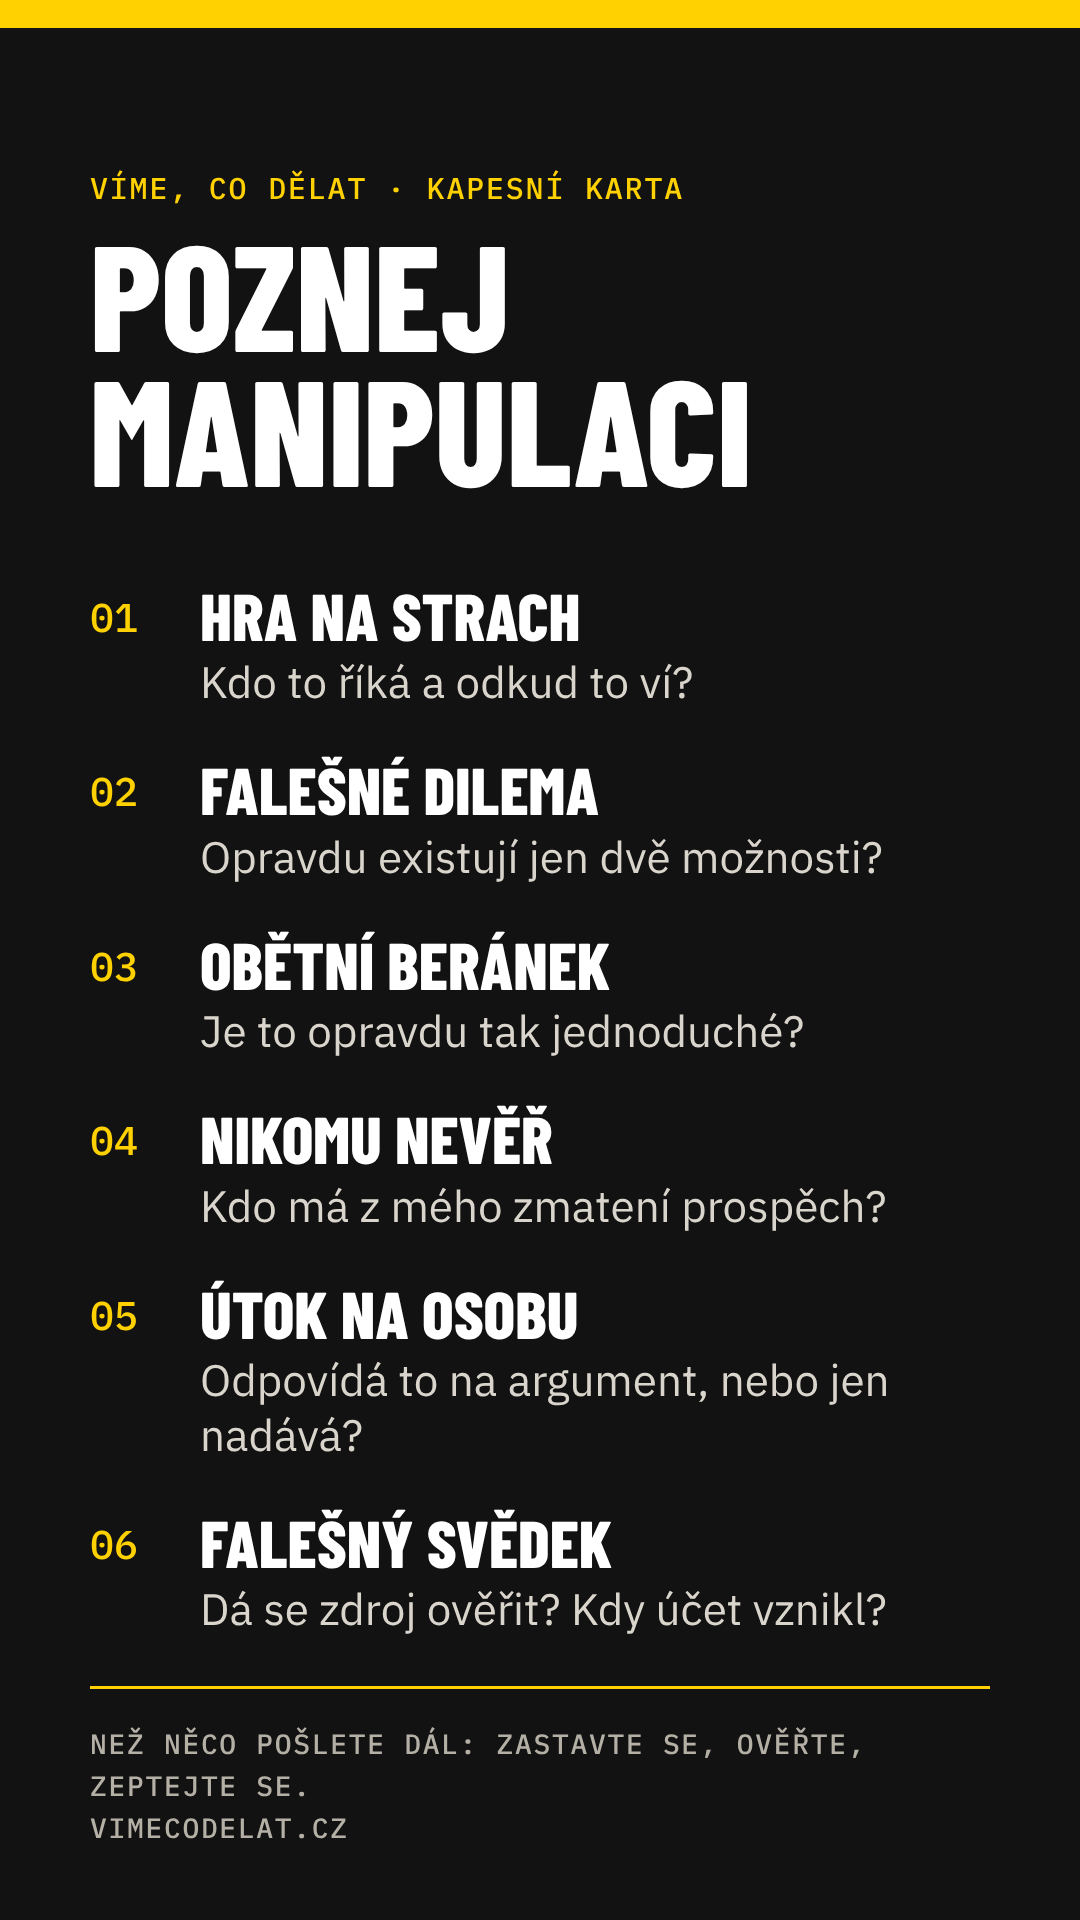
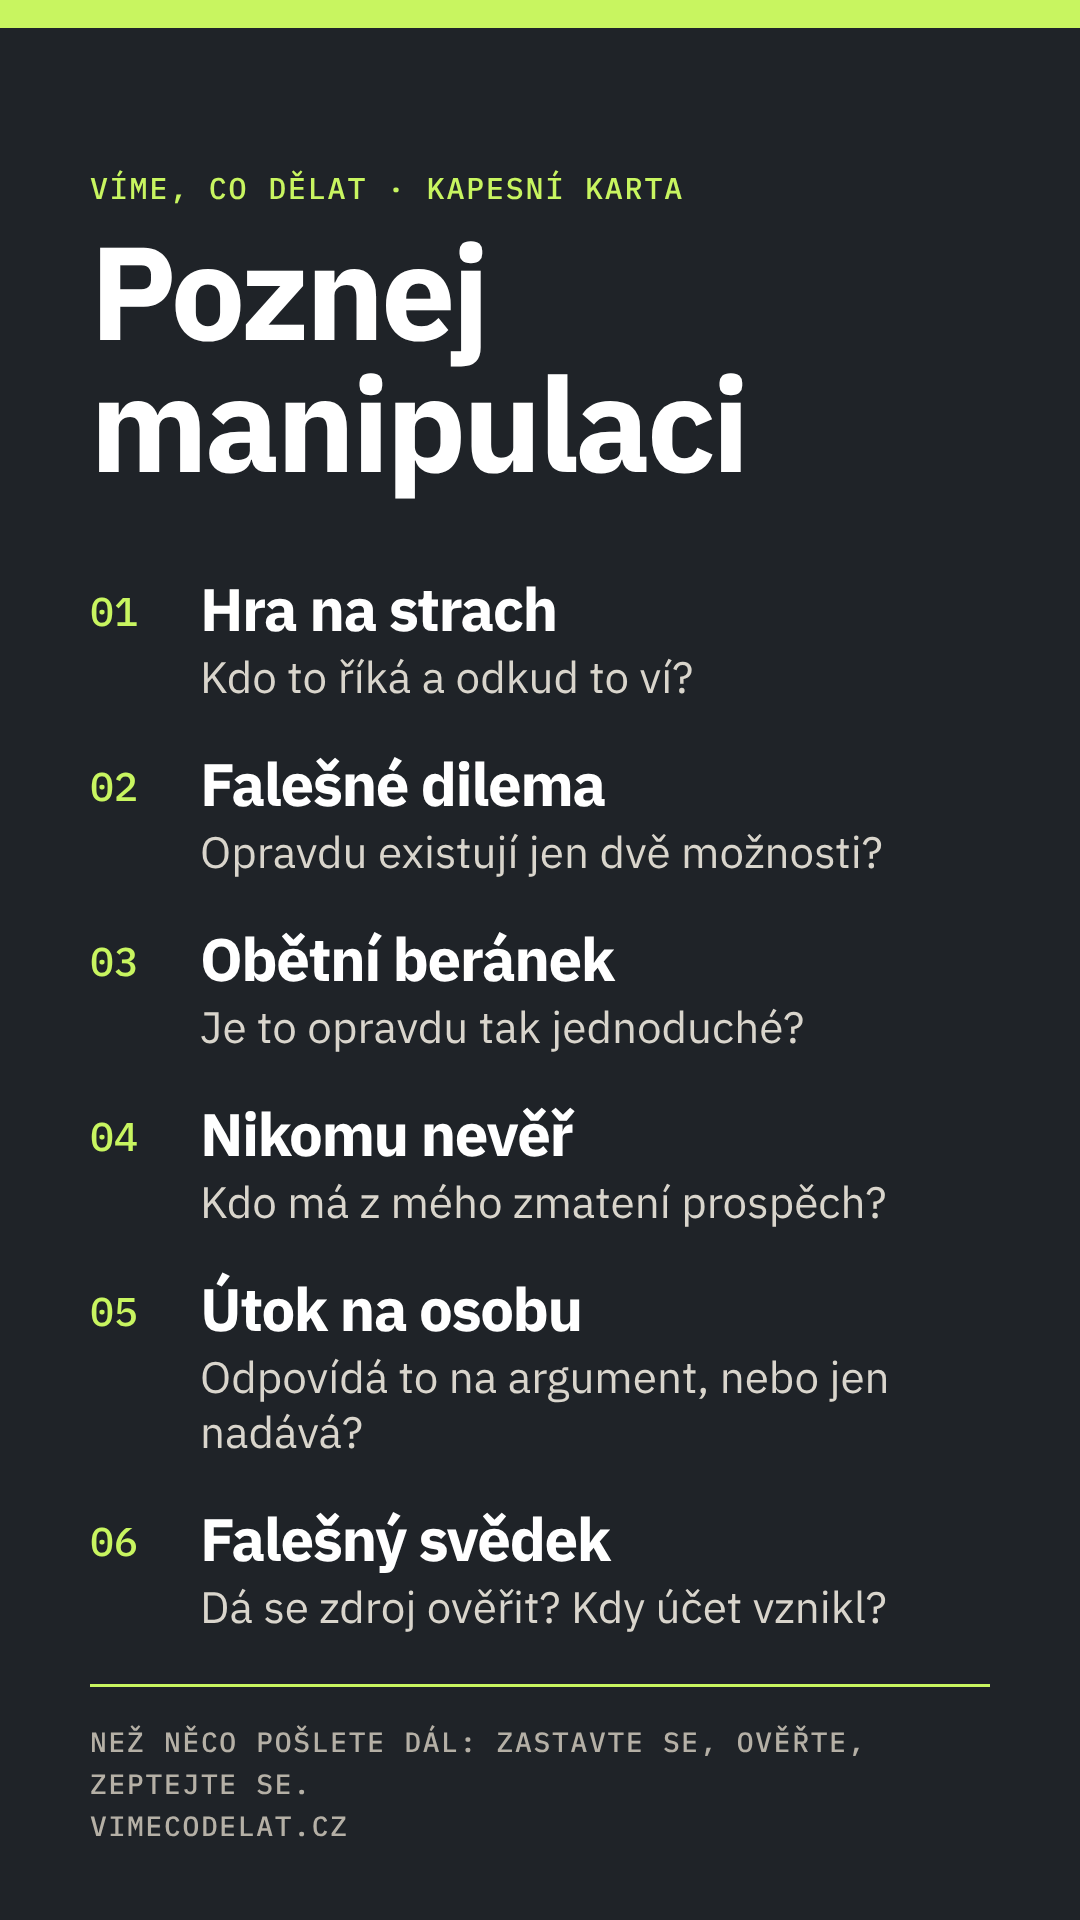
Hero obrázky s označením AI, úvod s fotografií, varianta Reflex v manuálu
- Pět ilustračních obrázků (ElevenLabs, Seedream 5 Pro) bez rozpoznatelných
  tváří, s viditelným označením „Ilustrační obrázek vytvořený pomocí AI“.
- Úvodní blok: text vlevo, fotografie vpravo s přechodem; na mobilu nahoře.
- Sdílecí obrázky, ikony a karta do telefonu v barvách varianty Reflex.
- Manuál značky: barvy, písmo, prvky a pravidla pro AI obrázky.

Claude-Session: https://claude.ai/code/session_01HYBxqYMogkeVjWpC5Fzufi

diff --git a/plan/01-brand.md b/plan/01-brand.md
@@ -136,40 +136,54 @@ Víme, co dělat
 
 Společné: vážnost, vysoký kontrast, ostré hrany, typografie nese sdělení. Žádné roztomilé ilustrace, žádné zaoblené dlaždice, žádné pastelové barvy.
 
-### Barvy
+### Barvy (zvolená varianta Reflex, 19. 10. 2026)
 
-| Role | Název | HEX | Použití |
-| --- | --- | --- | --- |
-| Hlavní | Černá | `#121212` | Text, úvodní bloky, patička, tlačítka |
-| Signální | Žlutá | `#FFD100` | Zvýraznění, Krok na dnes, aktivní stav, štítky. Na černé 12,8 : 1. Nikdy jako text na světlém pozadí. |
-| Pozadí | Papír | `#F2F0EB` | Pozadí stránek |
-| Plocha | Bílá | `#FFFFFF` | Dlaždice, formuláře |
-| Doplňková | Šedá | `#555555` | Méně důležitý text (6,5 : 1 na papíru) |
-| Výstraha | Červená | `#C8102E` | Jen pro skutečná varování, nikdy dekorativně |
+Reflexní žlutozelená je barva výstražných vest a bezpečnostních prvků: znamená „pozor, ale jsme připravení“. Žádná česká politická strana ji nepoužívá. Původní černo-žlutá kombinace se zúženými verzálkami byla odmítnuta, protože se shodovala s vizuálem Pirátů (`#fec934`, Bebas Neue).
 
-Pilíře se už neodlišují barvou, ale číslem (01–04) ve štítku. Pozor: nepoužíváme mezinárodní znak civilní obrany (modrý trojúhelník na oranžovém poli), jeho užití upravují Ženevské úmluvy.
+| Role | Název | HEX | Kontrast | Použití |
+| --- | --- | --- | --- | --- |
+| Hlavní | Grafit | `#1F2328` | | Text, úvodní bloky, patička, tlačítka |
+| Signální | Reflexní žlutozelená | `#C8F560` | 12,6 : 1 na grafitu | Zvýraznění, Krok na dnes, štítky, aktivní stav. Nikdy jako text na světlém pozadí. |
+| Text akcentu | Tmavá olivová | `#3D5A00` | 7,2 : 1 na papíru | Akcentový text na světlém pozadí |
+| Pozadí | Papír | `#F3F4F2` | | Pozadí stránek |
+| Plocha | Bílá | `#FFFFFF` | | Dlaždice, formuláře |
+| Doplňková | Šedá | `#555A5F` | 6,3 : 1 na papíru | Méně důležitý text |
+| Výstraha | Červená | `#B42318` | | Jen pro skutečná varování |
+
+Pilíře se neodlišují barvou, ale číslem (01–04) ve štítku. Nepoužíváme mezinárodní znak civilní obrany (modrý trojúhelník na oranžovém poli), jeho užití upravují Ženevské úmluvy.
 
 ### Písmo
 
 | Role | Písmo | Licence |
 | --- | --- | --- |
-| Nadpisy, hesla, tlačítka | **Barlow Condensed** ExtraBold, verzálky | OFL |
-| Text | **IBM Plex Sans** | OFL |
+| Nadpisy a text | **IBM Plex Sans** (nadpisy tučně, normální velikost písmen, těsnější prostrkání) | OFL |
 | Štítky, metadata, čísla | **IBM Plex Mono** | OFL |
 
-Všechna tři písma mají plnou českou diakritiku, jsou volně licencovaná a hostujeme je sami.
+Žádné zúžené verzálky (shoda s politickým vizuálem). Obě písma mají plnou českou diakritiku a hostujeme je sami.
 
 ### Prvky
 
-- **Ostré hrany** všude, rámečky 2 px černě.
-- **Tlačítka** obdélníková, verzálky, se šipkou →. Primární žluté, sekundární obrysové.
-- **Štítky** strojovým písmem na žlutém poli („01 · Jak by to mohlo vypadat“).
-- **Krok na dnes**: žlutý blok s černým rámečkem a posunutým stínem, text verzálkami.
-- **Úvodní blok**: černý, jen typografie, dvě věty, jedna z nich žlutě.
+- **Ostré hrany** všude, rámečky 2 px grafitově.
+- **Tlačítka** obdélníková, se šipkou →. Primární reflexní, sekundární obrysová.
+- **Štítky** strojovým písmem na reflexním poli („01 · Jak by to mohlo vypadat“).
+- **Krok na dnes**: reflexní blok s rámečkem a posunutým stínem.
+- **Úvodní blok**: grafitový, text vlevo, fotografie vpravo s přechodem do tmy.
+
+### Fotografie a obrázky
+
+Emoce nesou velké dokumentární fotografie (vzor: MPF, Suomi.fi, Denk vooruit). Do doby, než budou skutečné fotografie, používáme obrázky vytvořené pomocí AI, ale jen za těchto podmínek:
+
+- **Žádné rozpoznatelné tváře.** Siluety, pohled zezadu, ruce, prostředí, věci. Web o manipulaci nesmí ukazovat vymyšlené lidi jako skutečné.
+- **Vždy viditelné označení** „Ilustrační obrázek vytvořený pomocí AI“ přímo v obrázku.
+- **České reálie:** paneláky, koruny, české dálnice. Kontrolovat detaily (cizí měna, nápisy, značky).
+- Žádné zbraně v detailu, zranění, zničená města, vojenské symboly.
+- Postupně nahradit skutečnými fotografiemi (nafocené, se souhlasem) a skutečnými svědectvími.
+
+Aktuální sada (ElevenLabs, model Seedream 5 Pro, 19. 10. 2026): panelák se světlem v okně (úvod), kolona na dálnici v mlze (Scénář), ruce seniorky s rádiem (Příběhy), stůl s nouzovou výbavou (Připrav se), dospívající s telefonem zezadu (Manipulace). Zdrojové soubory jsou v `web/public/obrazky/`.
 
 ### Logo (pracovní)
 
-Slovní značka „VÍME, CO DĚLAT“ v Barlow Condensed se svislým žlutým blokem (stylizovaný zápis „hladina připravenosti“). Finální logo navrhne designér podle tohoto směru.
+Slovní značka „Víme, co dělat“ v IBM Plex Sans tučně se čtvercem v reflexní barvě. Finální logo navrhne designér podle tohoto směru.
 
 ### Co do vizuálu nepatří
 
@@ -178,7 +192,8 @@ Slovní značka „VÍME, CO DĚLAT“ v Barlow Condensed se svislým žlutým b
 - státní symboly, znak civilní obrany a barvy politických stran,
 - fotografie zničených měst, raněných a plačících dětí,
 - realistické obrázky lidí generované AI,
-- pastelové barvy, zaoblené „aplikační“ dlaždice, roztomilé ilustrace.
+- pastelové barvy, zaoblené „aplikační“ dlaždice, roztomilé ilustrace,
+- kombinace barev a písem, které používá některá politická strana (černá se žlutou a zúžené verzálky = Piráti).
 
 ### Ilustrace
 
@@ -257,7 +272,7 @@ Klidný ženský nebo mužský hlas (ideálně tvář projektu), krátká zvukov
 >
 > **Cílové skupiny:** rodiče, senioři a jejich dospělé děti, mladí 15–25, zaměstnanci logistiky a výroby, starostové a učitelé.
 >
-> **Pocit, který chceme vyvolat:** Vážnost, důvěra, odhodlání, „víme, co dělat“. Vzory: MPF (Švédsko), olevalmis.ee, Prepare (UK). Pracovní směr: černá a signální žlutá, zúžené verzálky, ostré hrany.
+> **Pocit, který chceme vyvolat:** Vážnost, důvěra, odhodlání, „víme, co dělat“. Vzory: MPF (Švédsko), olevalmis.ee, Prepare (UK). Pracovní směr: grafit a reflexní žlutozelená, IBM Plex, ostré hrany, dokumentární fotografie. Pozor na shodu s barvami a písmy politických stran.
 >
 > **Čemu se vyhnout:** vojenská a prepperská estetika, poplašná červená, odpočty, vzhled státních webů, stranické barvy, AI generované tváře.
 >
